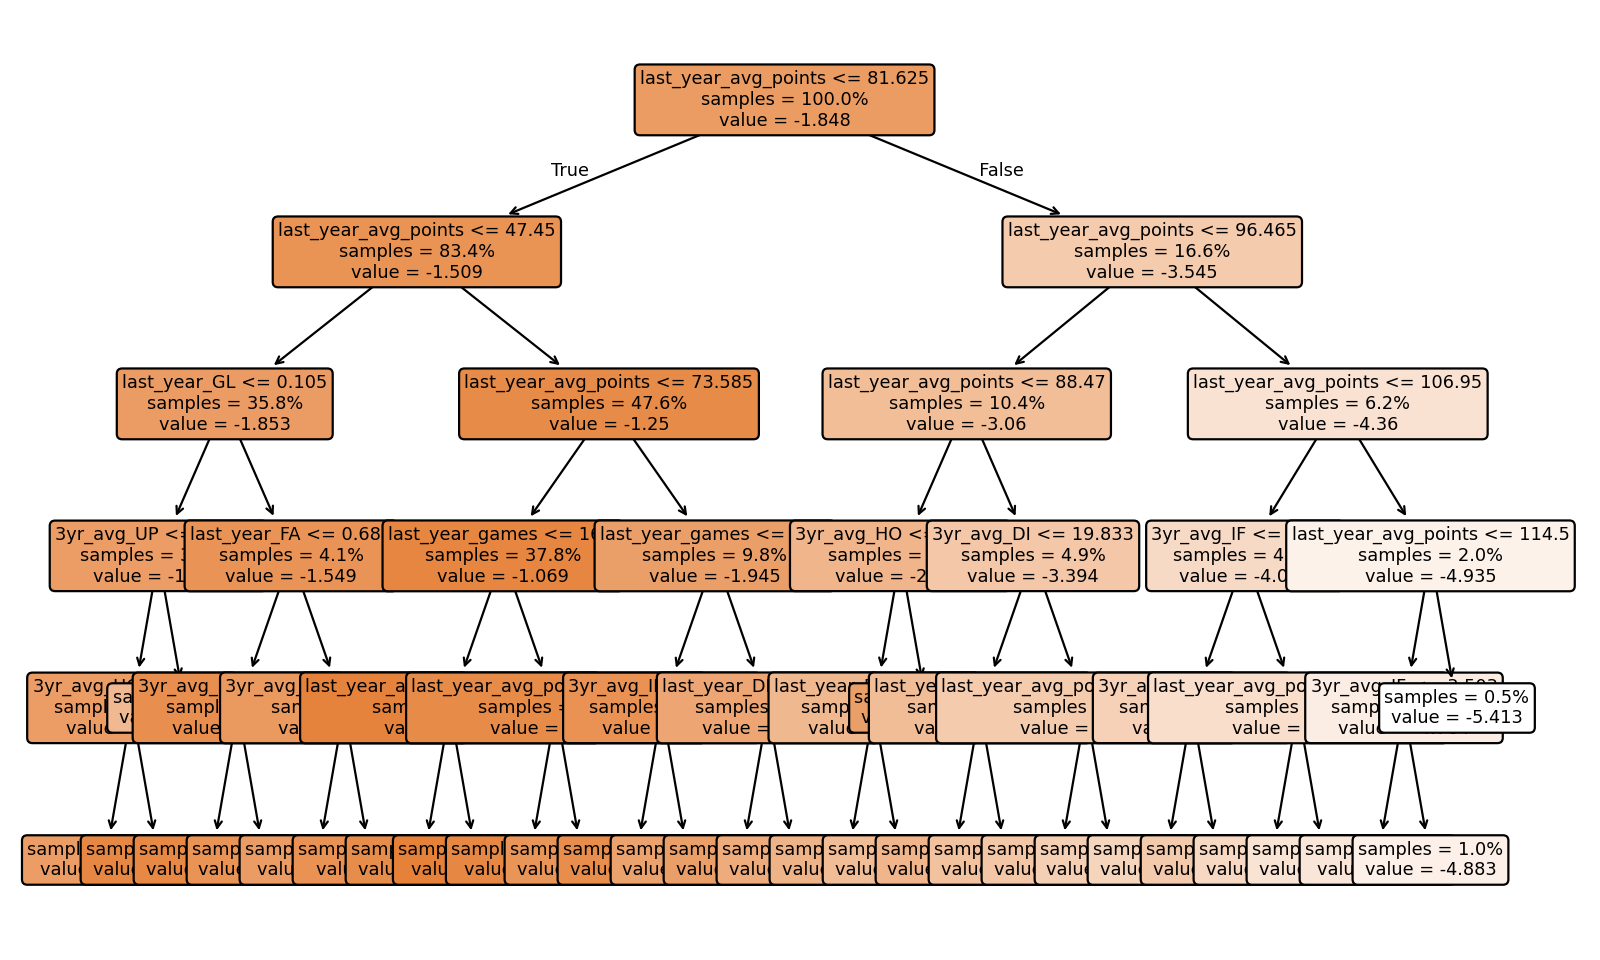
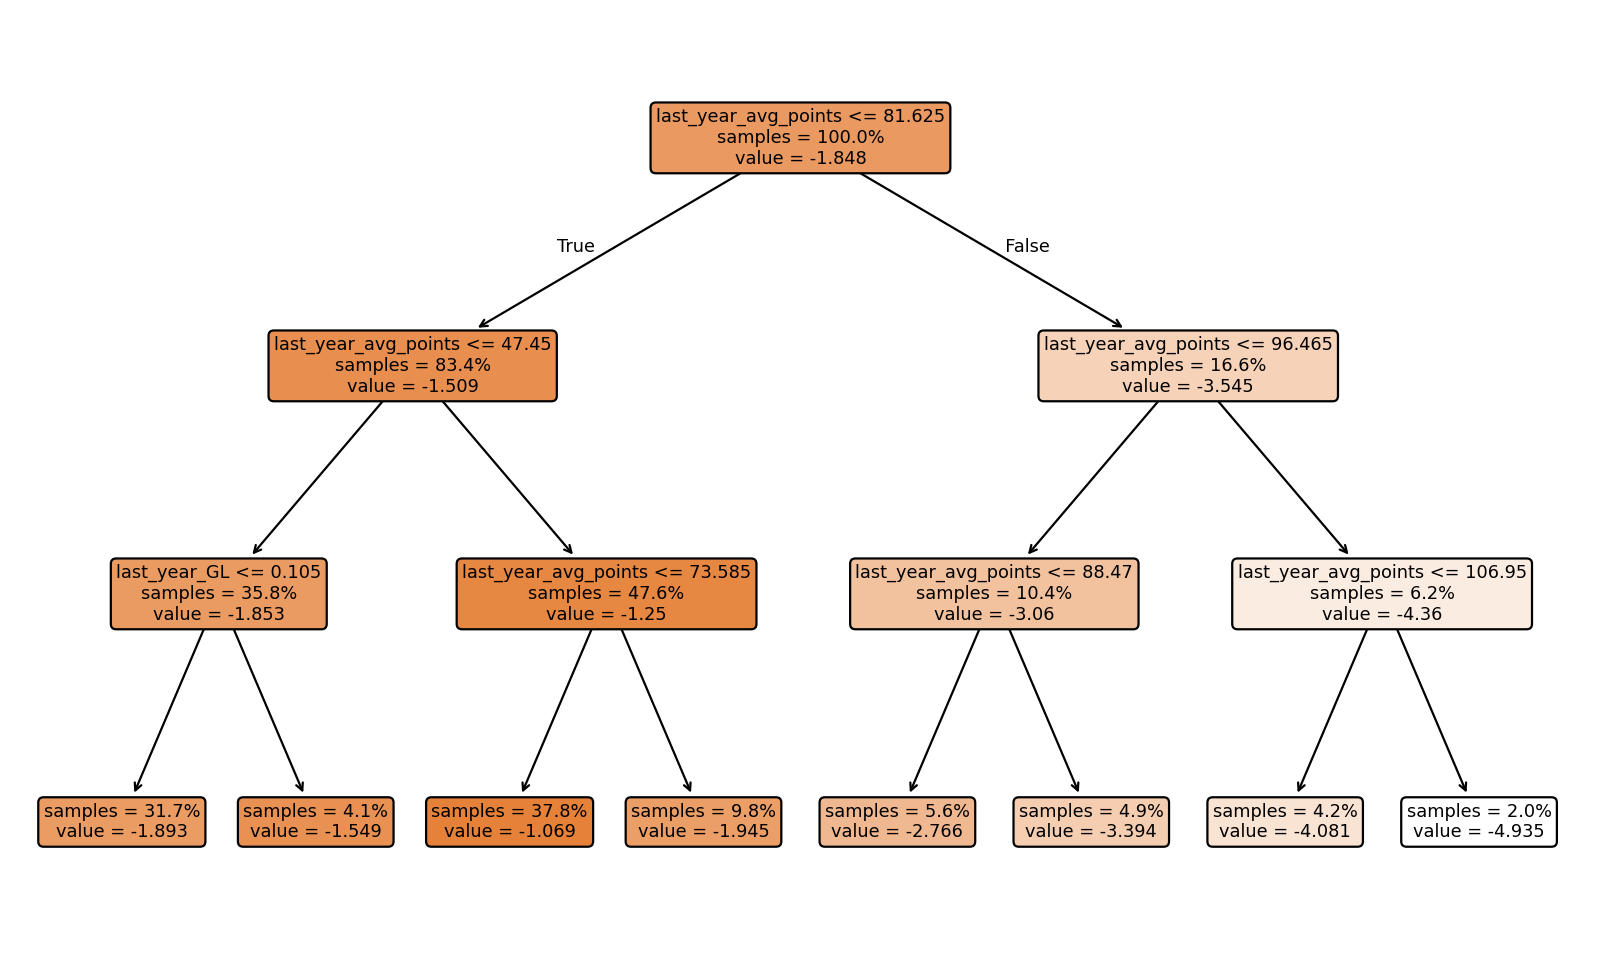
shallowtree explain

diff --git a/src/explain/quick_explain.py b/src/explain/quick_explain.py
@@ -128,7 +128,7 @@ def save_importance_plot(df_imp: pd.DataFrame, out_path: str, top_k: int = 15) -
     plt.tight_layout(); plt.savefig(out_path, dpi=150); plt.close()
 
 def fit_tiny_tree_on_train(X_train: np.ndarray, tlog_train: np.ndarray) -> DecisionTreeRegressor:
-    tree = DecisionTreeRegressor(max_depth=5, min_samples_leaf=20, random_state=42)
+    tree = DecisionTreeRegressor(max_depth=3, min_samples_leaf=50, random_state=42)
     tree.fit(X_train, tlog_train.reshape(-1))
     return tree
 

diff --git a/output/explain/README_explainability.md b/output/explain/README_explainability.md
@@ -8,9 +8,9 @@ Artifacts generated for interpretability of the AFL Breakout model.
 - Teacher vs surrogate examples: `teacher_topk.csv`, `student_topk.csv`
 
 ## Metrics (validation)
-- Spearman fidelity: 0.868
-- Top-K overlap: 0.182
-- Team value (surrogate): 0.0942
-- Team value (random): 0.0970
+- Spearman fidelity: 0.808
+- Top-K overlap: 0.136
+- Team value (surrogate): 0.0917
+- Team value (random): 0.0968
 
 Parameters: max_depth=3, min_samples_leaf=50
